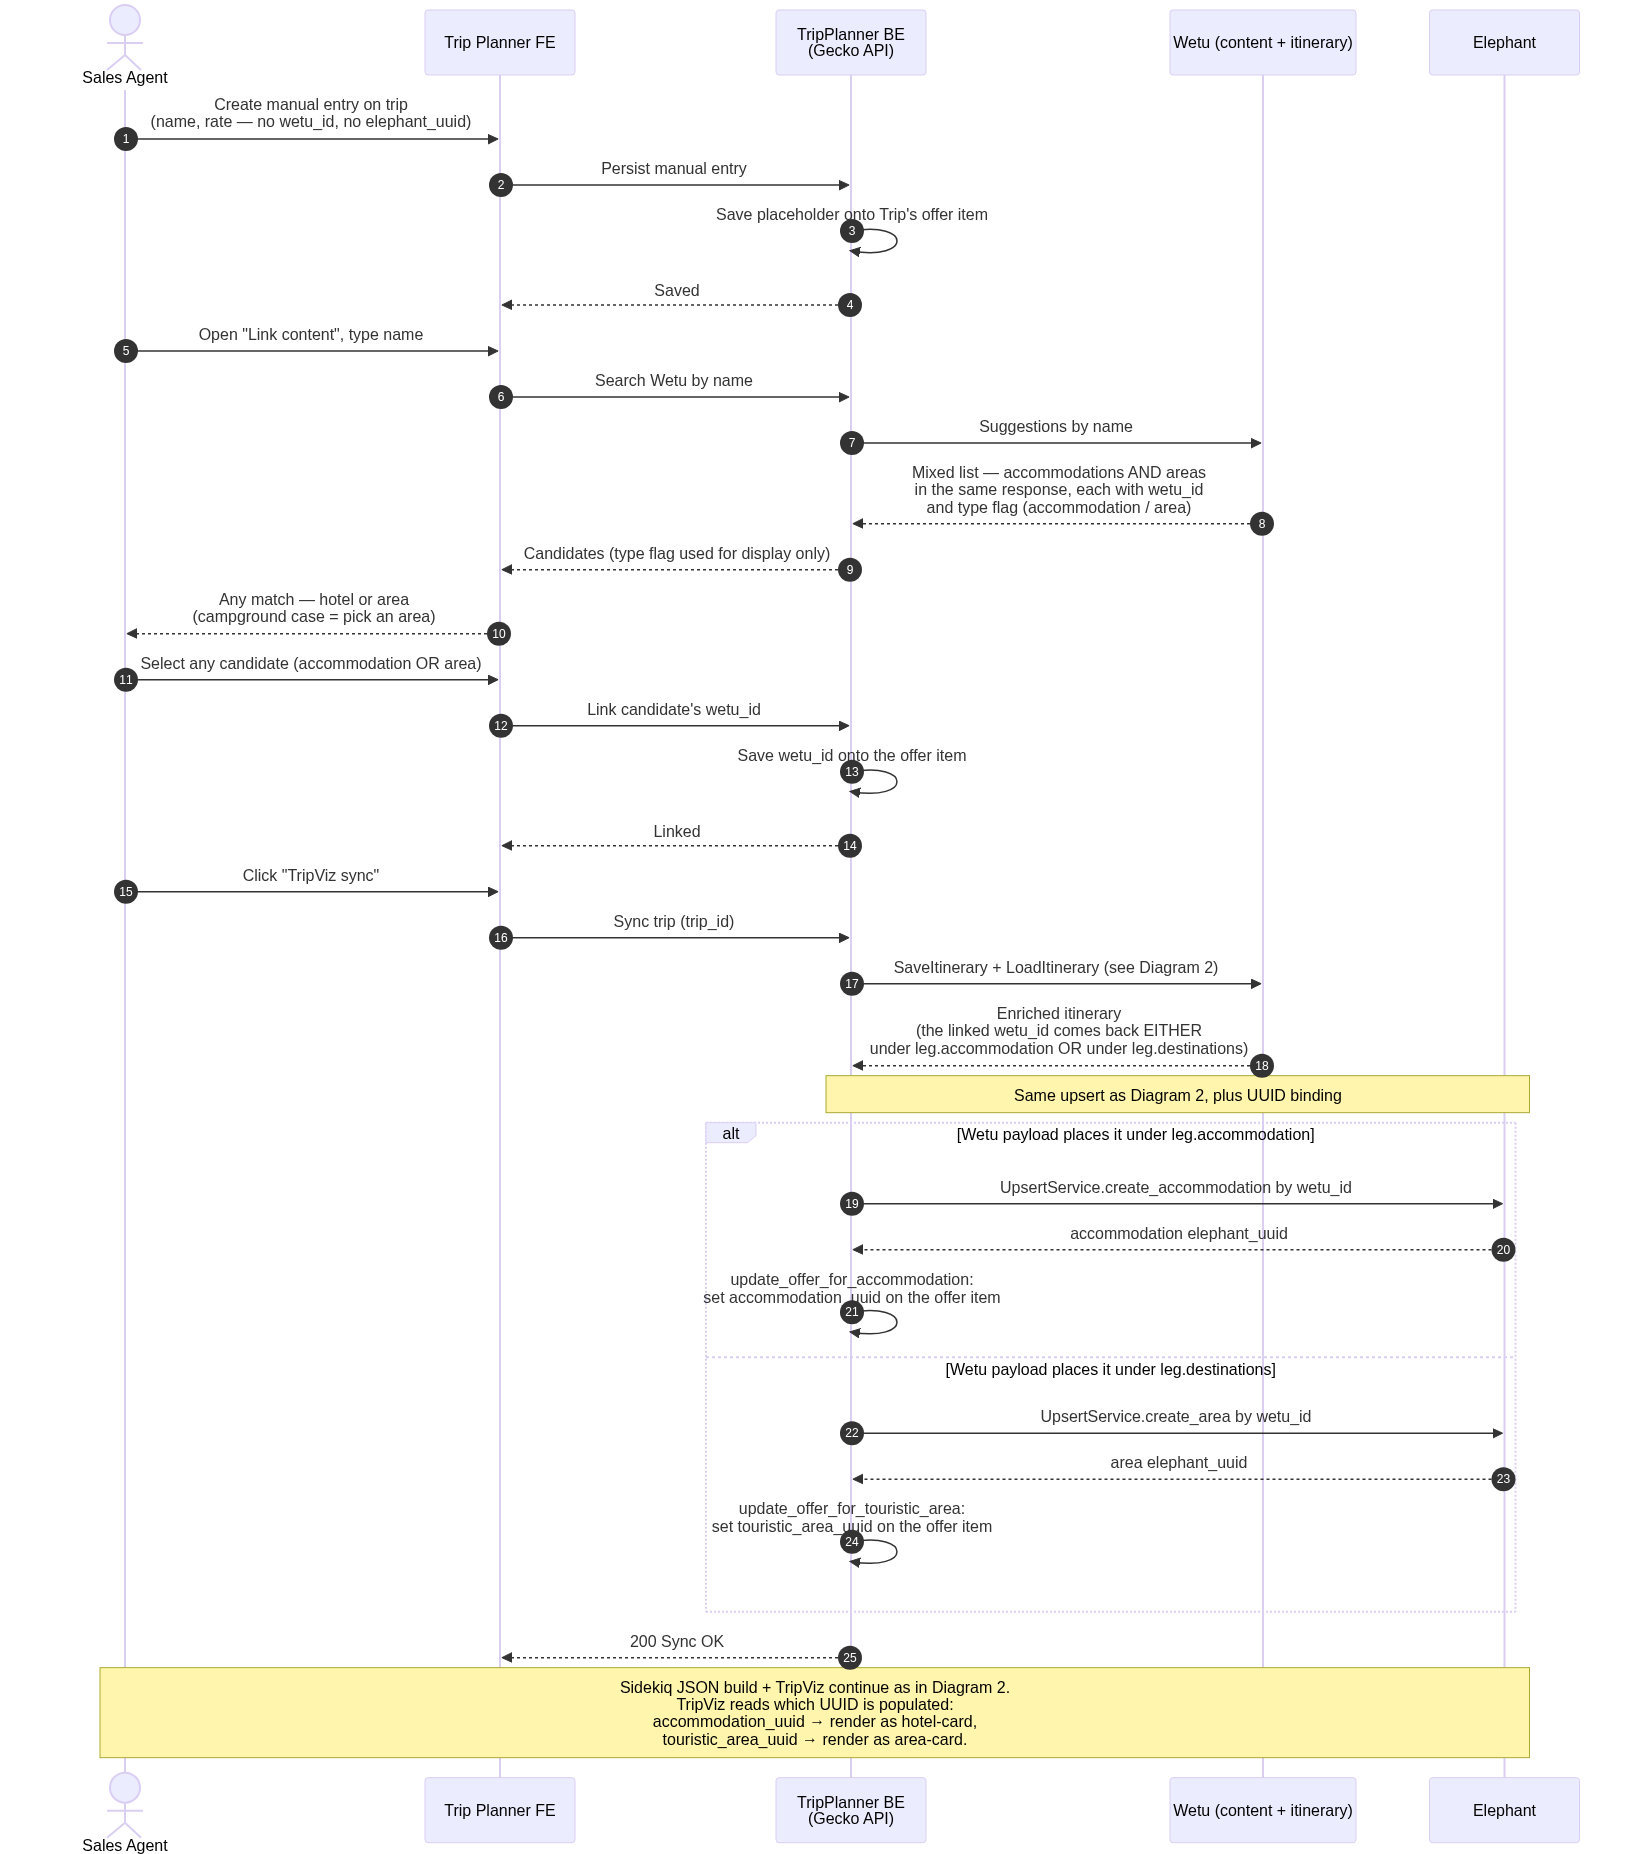
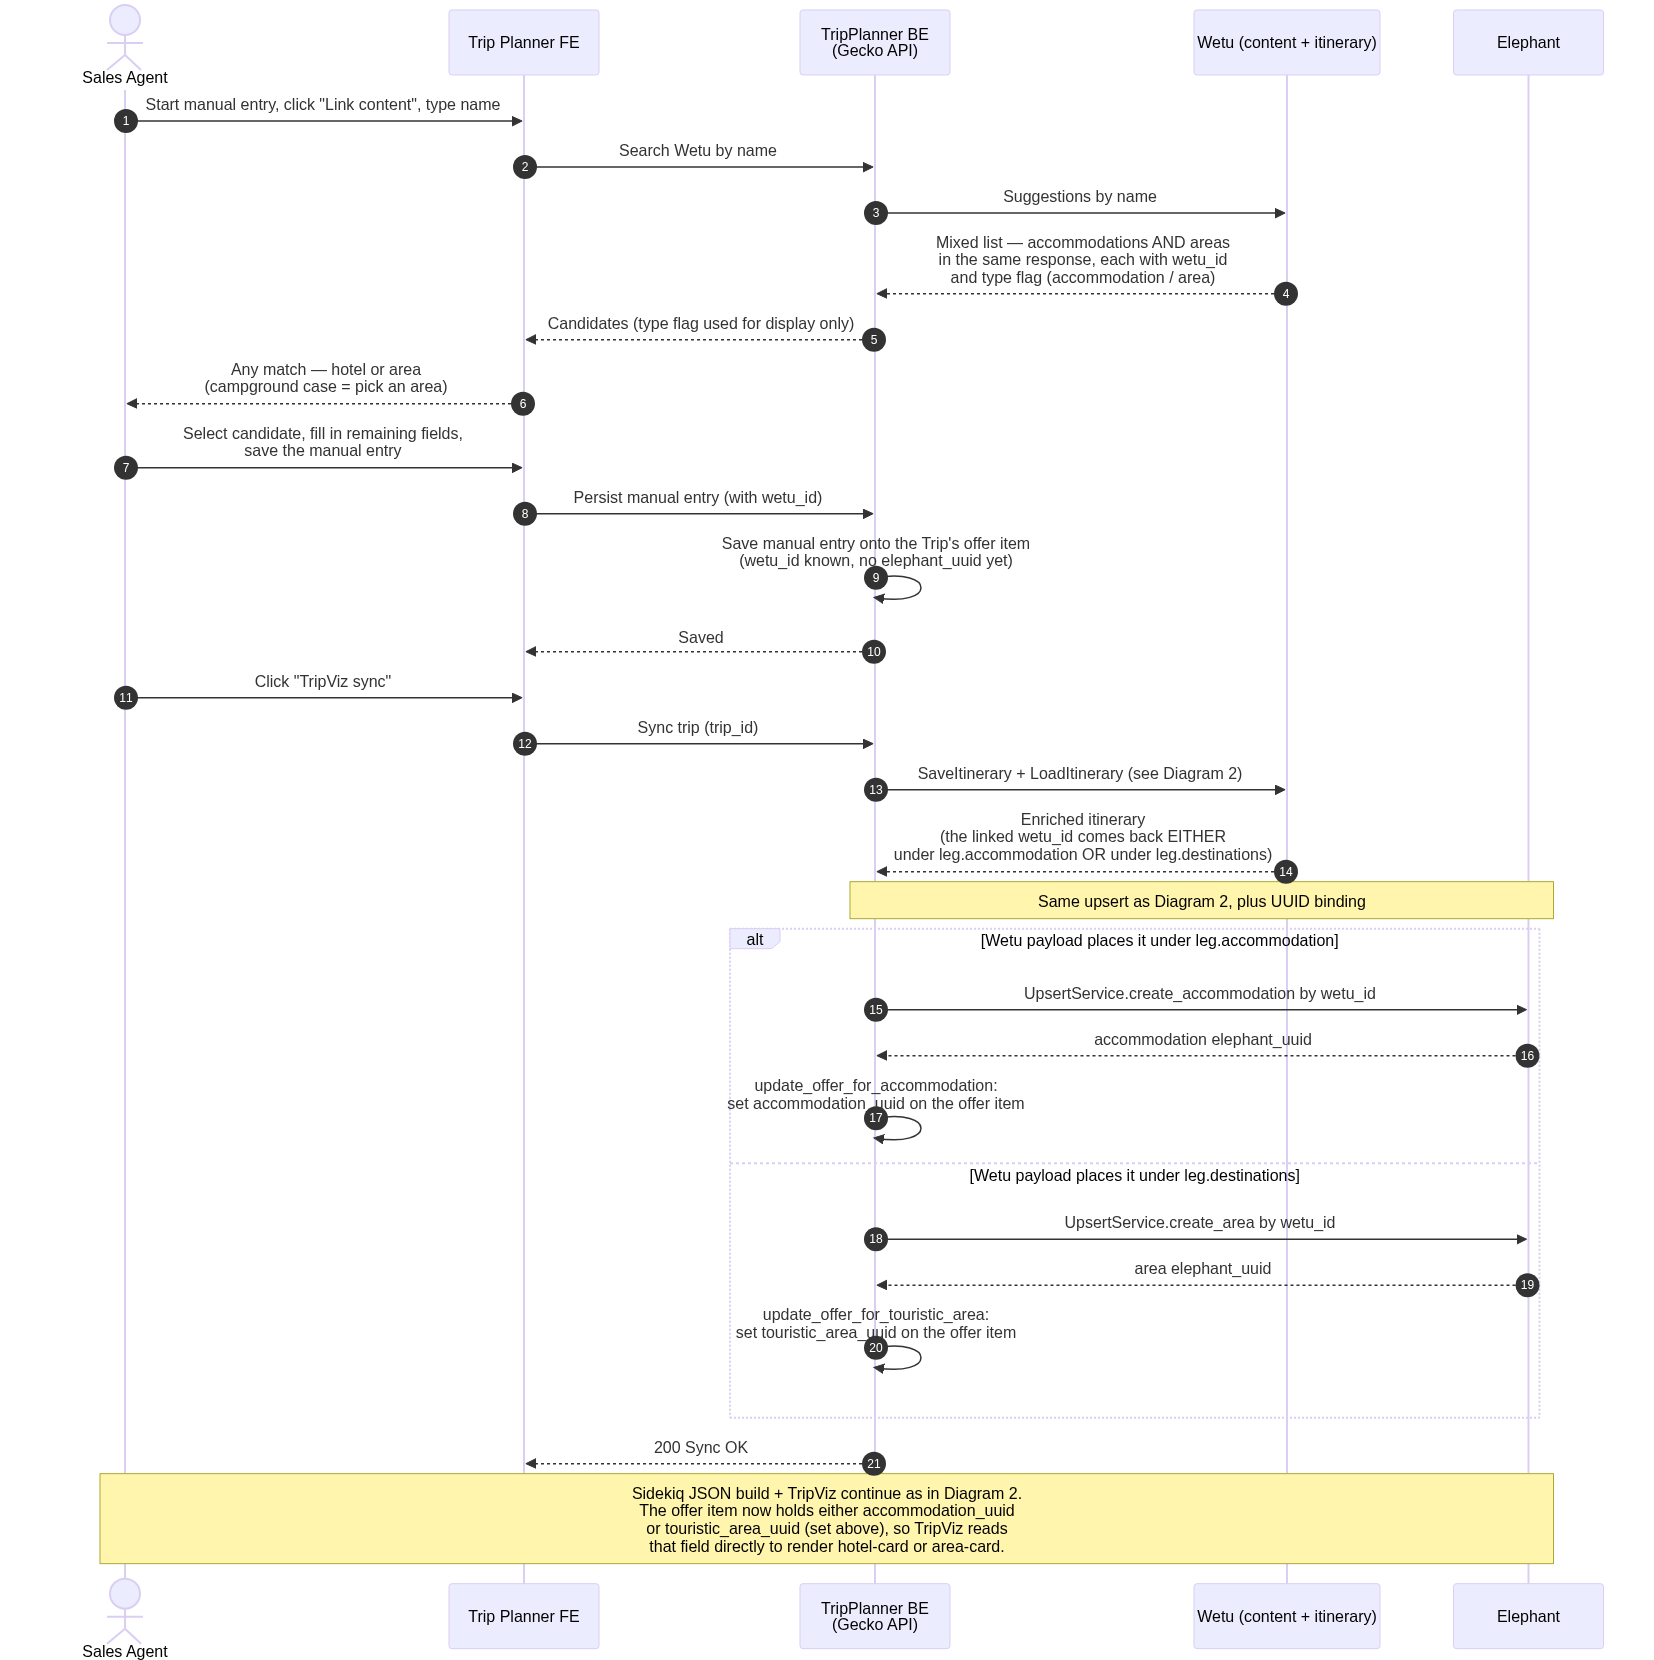
Diagram 3 fix per Gregor: reorder + clarify type storage
Per Gregor's review of the Confluence-uploaded version:
- Reordered Diagram 3: agent uses Link Content + picks a
  candidate BEFORE persisting the manual entry. The wetu_id
  is therefore already attached when the entry is saved.
- Clarified that the offer item itself records the
  accommodation-vs-area distinction during TripViz sync (which
  UUID slot gets set). The previous "TripViz infers from
  Elephant at render time" framing was misleading.
- Regenerated diagram_3.png with white background.
- Pushed to Confluence draft 4691394595.

diff --git a/OUTPUTS/2026-04-24_TripPlannerWetu-sequence-diagrams/TripPlannerWetu_Confluence.md b/OUTPUTS/2026-04-24_TripPlannerWetu-sequence-diagrams/TripPlannerWetu_Confluence.md
@@ -194,7 +194,7 @@ Internal Elephant references set during sync (no Wetu IDs leak through):
 
 ## Diagram 3 — Manual input with Link Content (accommodation or area, same flow)
 
-Used when Accommodations Search returns nothing. The agent creates a manual entry, then uses Link Content to pick from a mixed list (accommodations AND areas) returned by Wetu. Both kinds are linked the same way (single `wetu_id` slot). The accommodation-vs-area distinction only surfaces at render time, from which UUID field on the offer item is populated. Campground = pick an area instead of a hotel; same flow.
+Used when Accommodations Search returns nothing. The agent uses Link Content first — picks from a mixed list (accommodations AND areas) returned by Wetu — and then completes the manual entry, which is persisted with the chosen `wetu_id` already attached. Both kinds are linked the same way (single `wetu_id` slot). The accommodation-vs-area distinction is recorded on the offer item during TripViz sync (which UUID field gets set), so TripViz reads it directly. Campground = pick an area instead of a hotel; same flow.
 
 > 📎 **Image: Diagram 3** — upload `diagram_3.png` here.
 
@@ -210,22 +210,17 @@ sequenceDiagram
     participant Wetu as Wetu (content + itinerary)
     participant Eleph as Elephant
 
-    Agent->>TP: Create manual entry on trip<br/>(name, rate — no wetu_id, no elephant_uuid)
-    TP->>BE: Persist manual entry
-    BE->>BE: Save placeholder onto Trip's offer item
-    BE-->>TP: Saved
-
-    Agent->>TP: Open "Link content", type name
+    Agent->>TP: Start manual entry, click "Link content", type name
     TP->>BE: Search Wetu by name
     BE->>Wetu: Suggestions by name
     Wetu-->>BE: Mixed list — accommodations AND areas<br/>in the same response, each with wetu_id<br/>and type flag (accommodation / area)
     BE-->>TP: Candidates (type flag used for display only)
     TP-->>Agent: Any match — hotel or area<br/>(campground case = pick an area)
 
-    Agent->>TP: Select any candidate (accommodation OR area)
-    TP->>BE: Link candidate's wetu_id
-    BE->>BE: Save wetu_id onto the offer item
-    BE-->>TP: Linked
+    Agent->>TP: Select candidate, fill in remaining fields,<br/>save the manual entry
+    TP->>BE: Persist manual entry (with wetu_id)
+    BE->>BE: Save manual entry onto the Trip's offer item<br/>(wetu_id known, no elephant_uuid yet)
+    BE-->>TP: Saved
 
     Agent->>TP: Click "TripViz sync"
     TP->>BE: Sync trip (trip_id)
@@ -244,7 +239,7 @@ sequenceDiagram
     end
     BE-->>TP: 200 Sync OK
 
-    Note over Agent,Eleph: Sidekiq JSON build + TripViz continue as in Diagram 2.<br/>TripViz reads which UUID is populated:<br/>accommodation_uuid → render as hotel-card,<br/>touristic_area_uuid → render as area-card.
+    Note over Agent,Eleph: Sidekiq JSON build + TripViz continue as in Diagram 2.<br/>The offer item now holds either accommodation_uuid<br/>or touristic_area_uuid (set above), so TripViz reads<br/>that field directly to render hotel-card or area-card.
 ```
 
 </details>

diff --git a/OUTPUTS/2026-04-24_TripPlannerWetu-sequence-diagrams/TripPlannerWetu_Documentation.md b/OUTPUTS/2026-04-24_TripPlannerWetu-sequence-diagrams/TripPlannerWetu_Documentation.md
@@ -173,7 +173,7 @@ Internal Elephant references set during sync (no Wetu IDs leak through):
 
 ## Diagram 3 — Manual input with Link Content (accommodation or area, same flow)
 
-Used when Accommodations Search returns nothing. The agent creates a manual entry, then uses Link Content to pick from a mixed list (accommodations AND areas) returned by Wetu. Both kinds are linked the same way (single `wetu_id` slot). The accommodation-vs-area distinction only surfaces at render time, from which UUID field on the offer item is populated. Campground = pick an area instead of a hotel; same flow.
+Used when Accommodations Search returns nothing. The agent uses Link Content first — picks from a mixed list (accommodations AND areas) returned by Wetu — and then completes the manual entry, which is persisted with the chosen `wetu_id` already attached. Both kinds are linked the same way (single `wetu_id` slot). The accommodation-vs-area distinction is recorded on the offer item during TripViz sync (which UUID field gets set), so TripViz reads it directly. Campground = pick an area instead of a hotel; same flow.
 
 ```mermaid
 sequenceDiagram
@@ -184,22 +184,17 @@ sequenceDiagram
     participant Wetu as Wetu (content + itinerary)
     participant Eleph as Elephant
 
-    Agent->>TP: Create manual entry on trip<br/>(name, rate — no wetu_id, no elephant_uuid)
-    TP->>BE: Persist manual entry
-    BE->>BE: Save placeholder onto Trip's offer item
-    BE-->>TP: Saved
-
-    Agent->>TP: Open "Link content", type name
+    Agent->>TP: Start manual entry, click "Link content", type name
     TP->>BE: Search Wetu by name
     BE->>Wetu: Suggestions by name
     Wetu-->>BE: Mixed list — accommodations AND areas<br/>in the same response, each with wetu_id<br/>and type flag (accommodation / area)
     BE-->>TP: Candidates (type flag used for display only)
     TP-->>Agent: Any match — hotel or area<br/>(campground case = pick an area)
 
-    Agent->>TP: Select any candidate (accommodation OR area)
-    TP->>BE: Link candidate's wetu_id
-    BE->>BE: Save wetu_id onto the offer item
-    BE-->>TP: Linked
+    Agent->>TP: Select candidate, fill in remaining fields,<br/>save the manual entry
+    TP->>BE: Persist manual entry (with wetu_id)
+    BE->>BE: Save manual entry onto the Trip's offer item<br/>(wetu_id known, no elephant_uuid yet)
+    BE-->>TP: Saved
 
     Agent->>TP: Click "TripViz sync"
     TP->>BE: Sync trip (trip_id)
@@ -218,7 +213,7 @@ sequenceDiagram
     end
     BE-->>TP: 200 Sync OK
 
-    Note over Agent,Eleph: Sidekiq JSON build + TripViz continue as in Diagram 2.<br/>TripViz reads which UUID is populated:<br/>accommodation_uuid → render as hotel-card,<br/>touristic_area_uuid → render as area-card.
+    Note over Agent,Eleph: Sidekiq JSON build + TripViz continue as in Diagram 2.<br/>The offer item now holds either accommodation_uuid<br/>or touristic_area_uuid (set above), so TripViz reads<br/>that field directly to render hotel-card or area-card.
 ```
 
 ---
